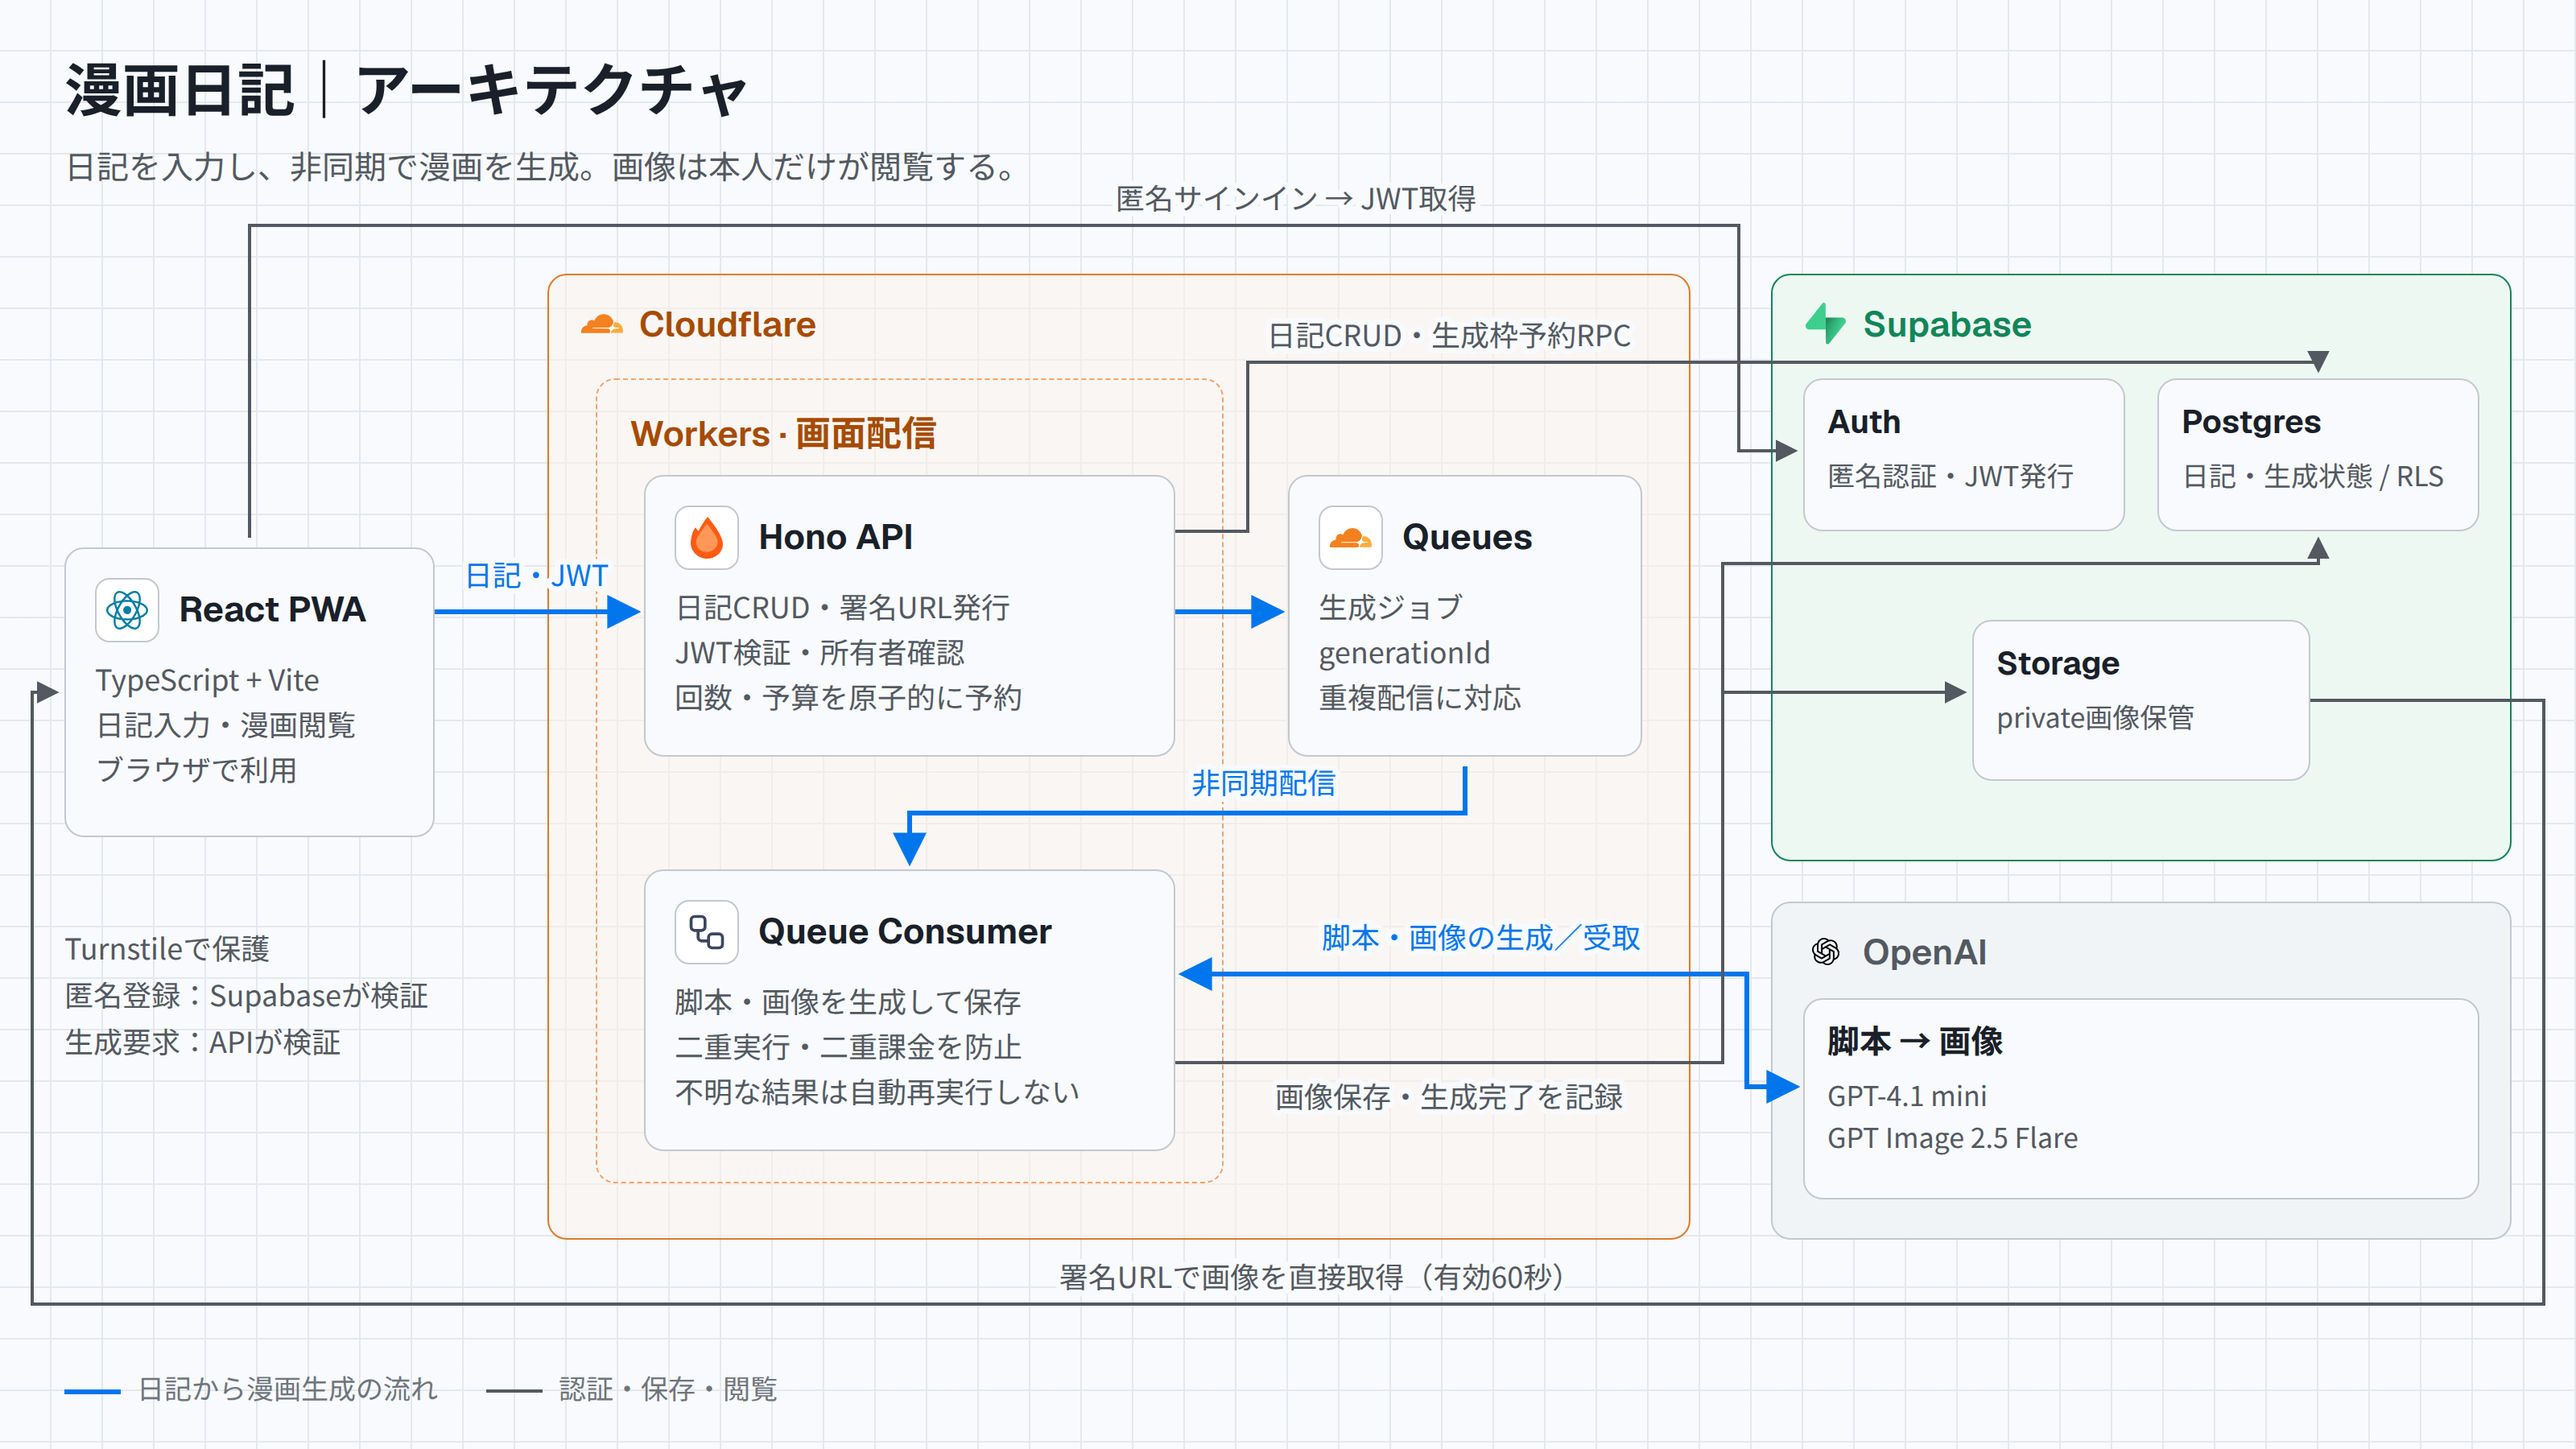
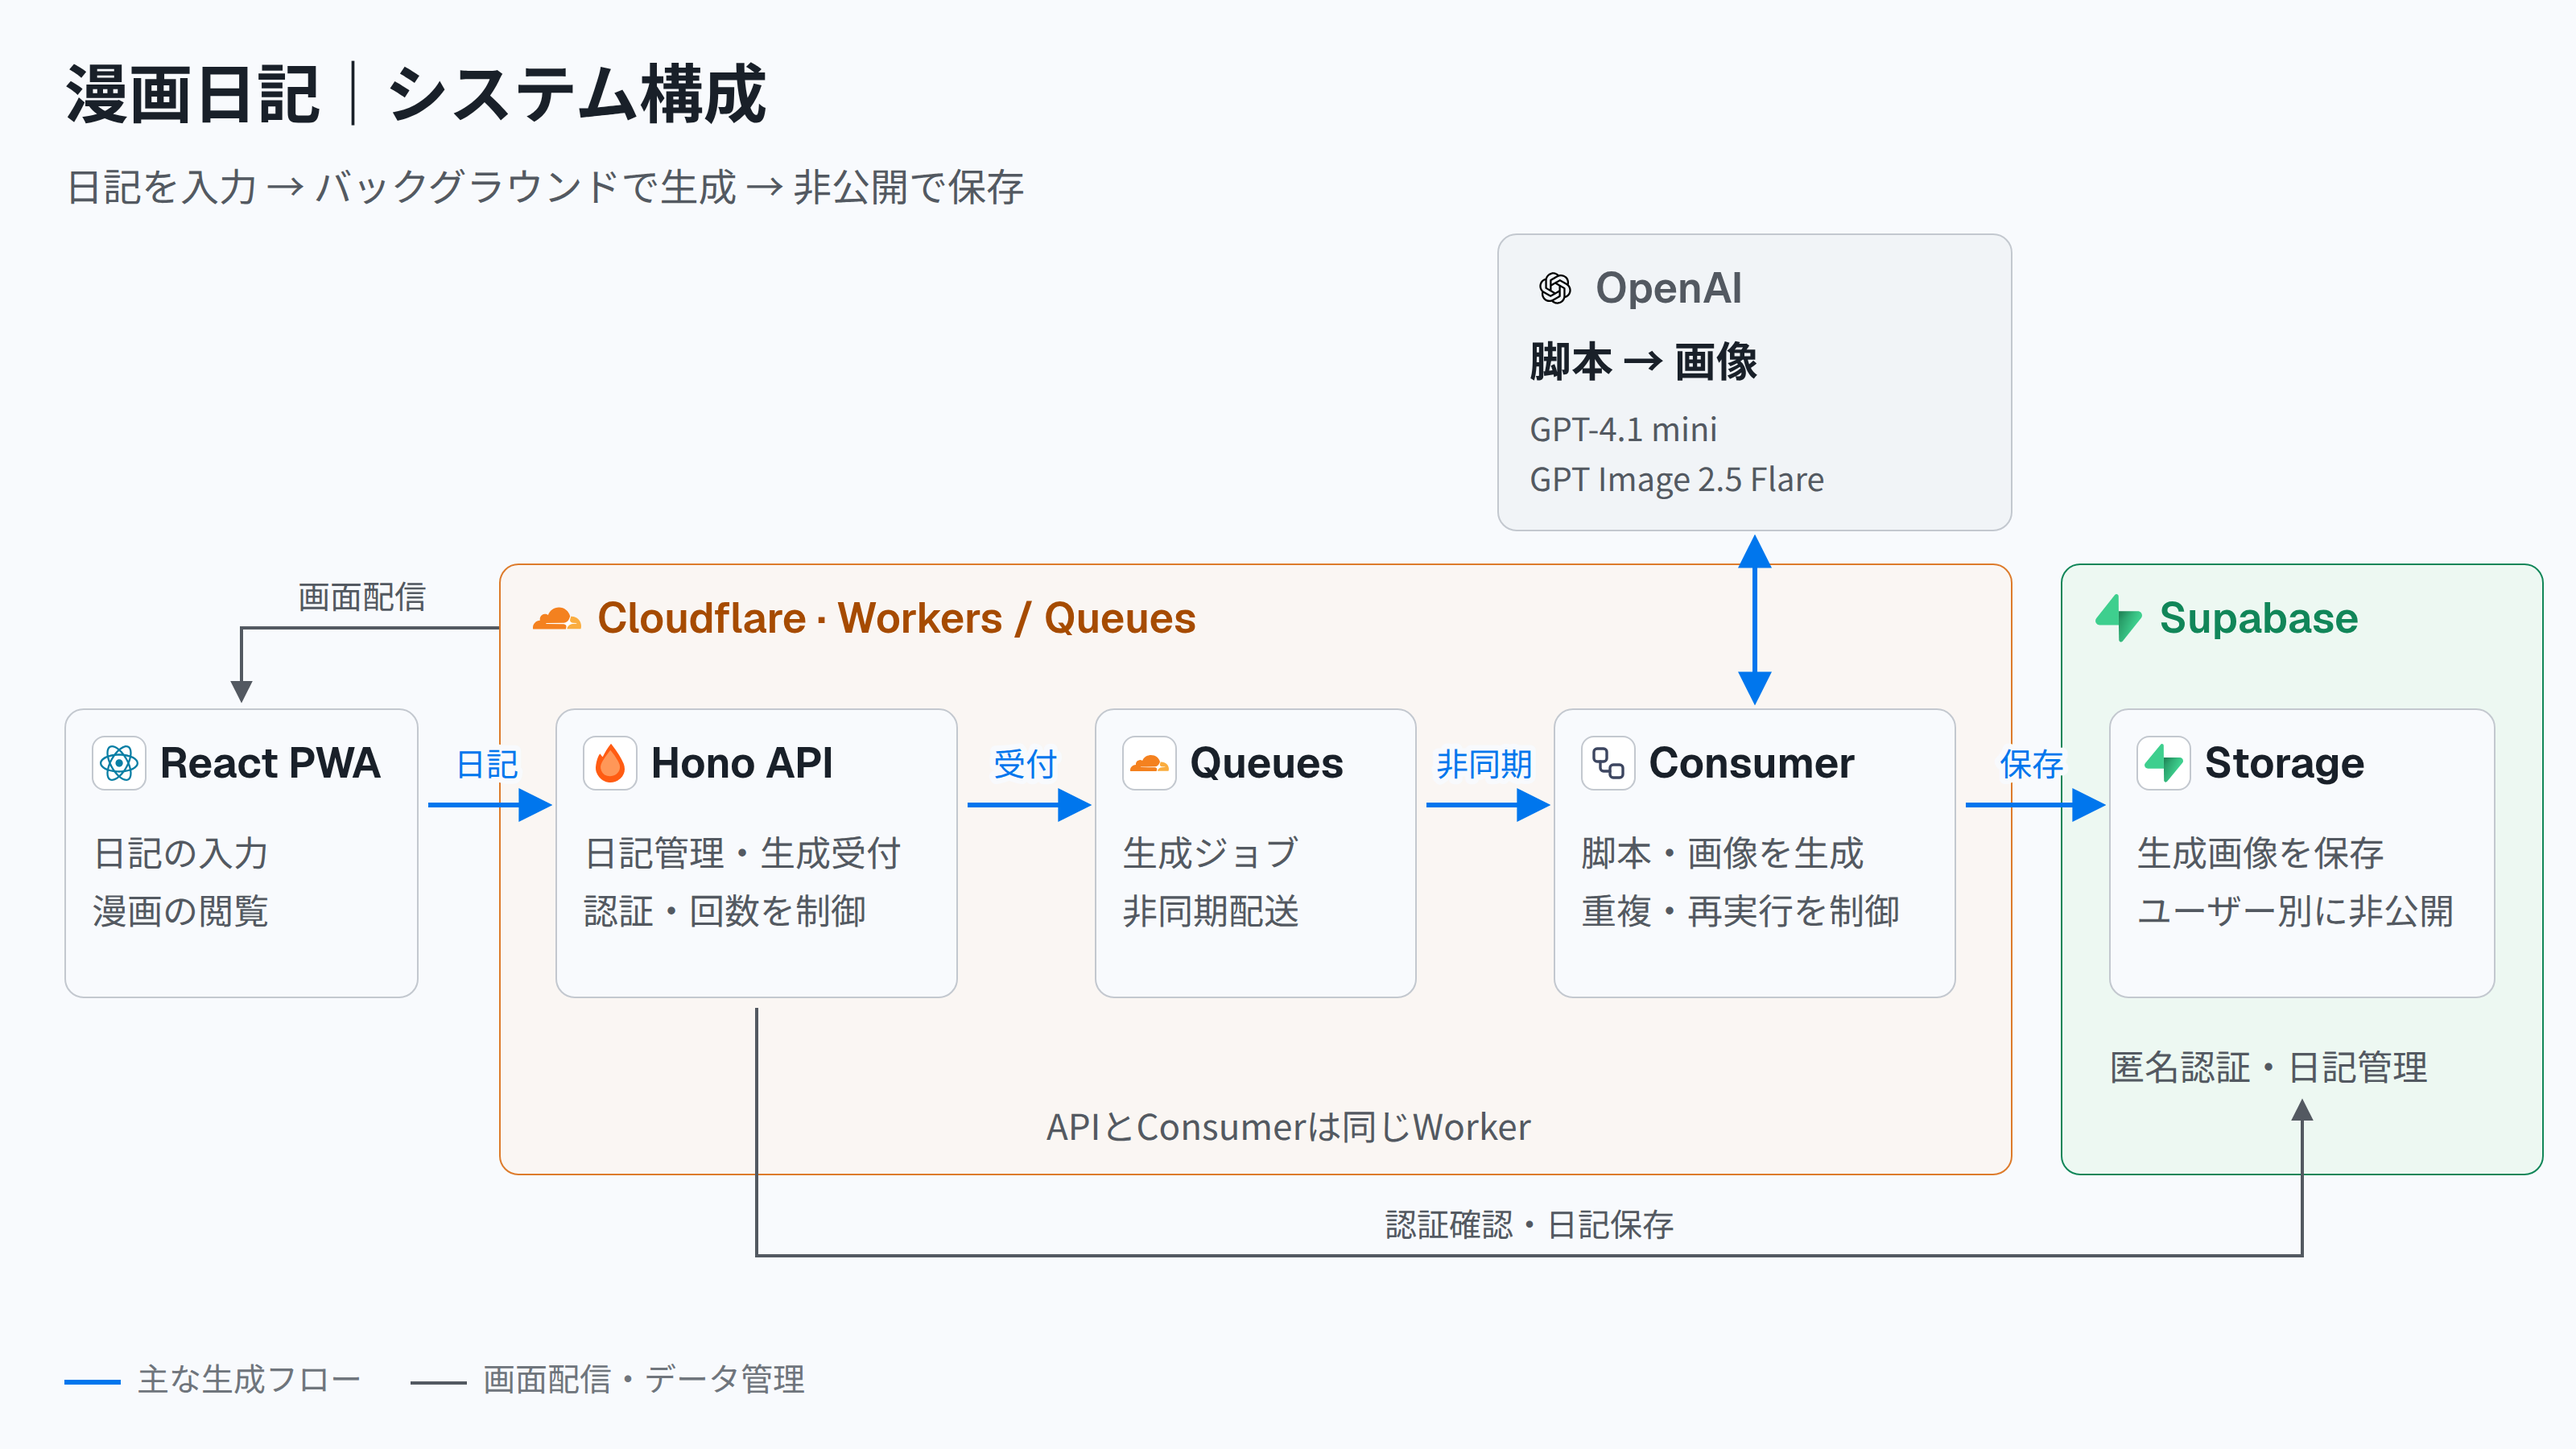
docs: 発表向けにアーキテクチャ図を簡略化

diff --git a/docs/diagrams/architecture.html b/docs/diagrams/architecture.html
@@ -22,7 +22,7 @@ LIABILITY, WHETHER IN AN ACTION OF CONTRACT, TORT OR OTHERWISE, ARISING FROM,
 OUT OF OR IN CONNECTION WITH THE SOFTWARE OR THE USE OR OTHER DEALINGS IN THE
 SOFTWARE.
 -->
-<html lang="ja"><head><meta charset="UTF-8"><meta name="viewport" content="width=device-width, initial-scale=1"><title>漫画日記のアーキテクチャ</title><style>
+<html lang="ja"><head><meta charset="UTF-8"><meta name="viewport" content="width=device-width, initial-scale=1"><title>漫画日記のシステム構成</title><style>
 /* engineered-paper theme (cool near-white, one accent, mono labels)
  * All colors/fonts flow through the :root tokens — tweak tokens, not scattered values. */
 :root {
@@ -186,44 +186,41 @@ path.aws { stroke: var(--color-ink); stroke-width:1.6; fill:none; }
 .foot a:hover { color: var(--color-accent); }
 
 :root { --font-mono:"JetBrains Mono","Noto Sans CJK JP","Noto Sans JP",monospace; --color-supabase:oklch(55% .12 160); --color-supabase-tint:oklch(97% .015 160); }
-body { padding:24px; } .canvas { width:1600px; height:900px; background-size:32px 32px; }
-svg.edges {width:1600px;height:900px;} .g-label {font-size:22px;top:16px;left:20px;gap:10px;} .g-label img {width:26px;height:26px;}
+body {padding:24px;} .canvas {width:1600px;height:900px;background-image:none;} svg.edges {width:1600px;height:900px;}
+.g-label {font-size:26px;top:16px;left:20px;gap:10px;} .g-label img {width:30px;height:30px;}
 .group.supabase {border:1.5px solid var(--color-supabase);background:var(--color-supabase-tint);} .group.supabase .g-label {color:var(--color-supabase);}
 .group.openai {border:1.5px solid var(--color-rule-2);background:var(--color-paper-2);}
-.card {position:absolute;border:1px solid var(--color-rule-2);border-radius:12px;background:var(--color-paper);padding:18px;}
-.card-head {display:flex;align-items:center;gap:12px;font-family:var(--font-display);font-size:22px;font-weight:650;line-height:1.25;}
-.card-head img {width:40px;height:40px;object-fit:contain;background:white;border:1px solid var(--color-rule-2);border-radius:9px;padding:6px;}
-.card p {font-size:18px;line-height:1.55;color:var(--color-neutral);margin-top:10px;}
-.card.compact {padding:14px;} .card.compact .card-head {font-size:20px;gap:8px;} .card.compact p {font-size:17px;margin-top:7px;}
-.canvas-title {position:absolute;left:40px;top:35px;} .canvas-title h1 {font-size:36px;} .canvas-title p {font-size:20px;color:var(--color-neutral);margin-top:10px;}
-.e {stroke-width:3;} .n {stroke-width:2;} .el {font-family:var(--font-body);font-size:18px;stroke-width:7px;letter-spacing:0;}
-.caption {position:absolute;font-size:18px;color:var(--color-neutral);line-height:1.6;} .canvas-legend {position:absolute;left:40px;bottom:26px;display:flex;gap:30px;font-size:17px;color:var(--color-muted);}
+.card {position:absolute;border:1px solid var(--color-rule-2);border-radius:12px;background:var(--color-paper);padding:16px;}
+.card-head {display:flex;align-items:center;gap:8px;font-family:var(--font-display);font-size:26px;font-weight:650;line-height:1.25;white-space:nowrap;}
+.card-head img {width:34px;height:34px;object-fit:contain;background:white;border:1px solid var(--color-rule-2);border-radius:8px;padding:4px;}
+.card p {font-size:22px;line-height:1.65;color:var(--color-neutral);margin-top:20px;}
+.canvas-title {position:absolute;left:40px;top:35px;} .canvas-title h1 {font-size:40px;} .canvas-title p {font-size:24px;color:var(--color-neutral);margin-top:14px;}
+.e {stroke-width:3;} .n {stroke-width:2;} .el {font-family:var(--font-body);font-size:20px;stroke-width:7px;letter-spacing:0;}
+.caption {position:absolute;font-size:22px;color:var(--color-neutral);line-height:1.55;}
+.ai-detail {position:absolute;left:950px;top:205px;width:280px;} .ai-detail strong {font-family:var(--font-display);font-size:26px;} .ai-detail p {font-size:20px;line-height:1.55;color:var(--color-neutral);margin-top:8px;}
+.canvas-legend {position:absolute;left:40px;bottom:30px;display:flex;gap:30px;font-size:20px;color:var(--color-muted);}
 .canvas-legend i {display:inline-block;width:35px;border-top:3px solid var(--color-accent);vertical-align:middle;margin-right:10px;} .canvas-legend i.gray {border-color:var(--color-neutral);border-top-width:2px;}
-</style></head><body><main class="page"><div class="scroller"><div class="canvas" role="img" aria-label="React PWAから同一Cloudflare WorkerのAPI、Queues、Consumerを経由してOpenAIで漫画を生成し、Supabaseに非公開保存する構成図。">
-<div class="canvas-title"><h1>漫画日記｜アーキテクチャ</h1><p>日記を入力し、非同期で漫画を生成。画像は本人だけが閲覧する。</p></div>
[1 lines of base64/hex data omitted]
-<div class="group ga-nested" style="left:370px;top:235px;width:390px;height:500px"><div class="g-label">Workers · 画面配信</div></div>
[2 lines of base64/hex data omitted]
+</style></head><body><main class="page"><div class="scroller"><div class="canvas" role="img" aria-label="主な生成フローを左から右へ示す図。React PWA、Hono API、Queues、Consumer、Supabase Storageの順に進み、ConsumerがOpenAIを呼び出す。APIとConsumerは同じCloudflare Workerで動作する。">
+<div class="canvas-title"><h1>漫画日記｜システム構成</h1><p>日記を入力 → バックグラウンドで生成 → 非公開で保存</p></div>
[3 lines of base64/hex data omitted]
 <svg class="edges" viewBox="0 0 1600 900" aria-hidden="true"><defs><marker id="ar" viewBox="0 0 10 10" refX="8" refY="5" markerWidth="7" markerHeight="7" orient="auto-start-reverse"><path d="M0 0 L10 5 L0 10 z" fill="context-stroke"/></marker></defs>
-<path class="e" d="M270 380 H394" marker-end="url(#ar)"/><text class="el a" x="333" y="364" text-anchor="middle">日記・JWT</text>
-<path class="e" d="M730 380 H794" marker-end="url(#ar)"/>
-<path class="e" d="M910 476 V505 H565 V534" marker-end="url(#ar)"/><text class="el a" x="785" y="493" text-anchor="middle">非同期配信</text>
-<path class="e" d="M736 605 H1085 V675 H1114" marker-start="url(#ar)" marker-end="url(#ar)"/><text class="el a" x="920" y="589" text-anchor="middle">脚本・画像の生成／受取</text>
-<path class="n" d="M155 334 V140 H1080 V280 H1114" marker-end="url(#ar)"/><text class="el" x="805" y="130" text-anchor="middle">匿名サインイン → JWT取得</text>
-<path class="n" d="M730 330 H775 V225 H1440 V229" marker-end="url(#ar)"/><text class="el" x="900" y="215" text-anchor="middle">日記CRUD・生成枠予約RPC</text>
-<path class="n" d="M730 660 H1070 V350 H1440 V336" marker-end="url(#ar)"/><text class="el" x="900" y="688" text-anchor="middle">画像保存・生成完了を記録</text>
-<path class="n" d="M1070 430 H1219" marker-end="url(#ar)"/>
-<path class="n" d="M1435 435 H1580 V810 H20 V430 H34" marker-end="url(#ar)"/><text class="el" x="820" y="800" text-anchor="middle">署名URLで画像を直接取得（有効60秒）</text>
+<path class="e" d="M266 500 H339" marker-end="url(#ar)"/><text class="el a" x="302" y="482" text-anchor="middle">日記</text>
+<path class="e" d="M601 500 H674" marker-end="url(#ar)"/><text class="el a" x="637" y="482" text-anchor="middle">受付</text>
+<path class="e" d="M886 500 H959" marker-end="url(#ar)"/><text class="el a" x="922" y="482" text-anchor="middle">非同期</text>
+<path class="e" d="M1221 500 H1304" marker-end="url(#ar)"/><text class="el a" x="1262" y="482" text-anchor="middle">保存</text>
+<path class="e" d="M1090 336 V434" marker-start="url(#ar)" marker-end="url(#ar)"/>
+<path class="n" d="M310 390 H150 V434" marker-end="url(#ar)"/><text class="el" x="225" y="378" text-anchor="middle">画面配信</text>
+<path class="n" d="M470 626 V780 H1430 V685" marker-end="url(#ar)"/><text class="el" x="950" y="768" text-anchor="middle">認証確認・日記保存</text>
 </svg>
[4 lines of base64/hex data omitted]
-<div class="card compact" style="left:1120px;top:235px;width:200px;height:95px"><div class="card-head">Auth</div><p>匿名認証・JWT発行</p></div>
-<div class="card compact" style="left:1340px;top:235px;width:200px;height:95px"><div class="card-head">Postgres</div><p>日記・生成状態 / RLS</p></div>
-<div class="card compact" style="left:1225px;top:385px;width:210px;height:100px"><div class="card-head">Storage</div><p>private画像保管</p></div>
-<div class="card compact" style="left:1120px;top:620px;width:420px;height:125px"><div class="card-head">脚本 → 画像</div><p>GPT-4.1 mini<br>GPT Image 2.5 Flare</p></div>
-<p class="caption" style="left:40px;top:575px;width:250px">Turnstileで保護<br>匿名登録：Supabaseが検証<br>生成要求：APIが検証</p>
-<div class="canvas-legend"><span><i></i>日記から漫画生成の流れ</span><span><i class="gray"></i>認証・保存・閲覧</span></div>
[5 lines of base64/hex data omitted]
+<div class="ai-detail"><strong>脚本 → 画像</strong><p>GPT-4.1 mini<br>GPT Image 2.5 Flare</p></div>
+<p class="caption" style="left:650px;top:682px">APIとConsumerは同じWorker</p>
+<p class="caption" style="left:1310px;top:645px;width:240px">匿名認証・日記管理</p>
+<div class="canvas-legend"><span><i></i>主な生成フロー</span><span><i class="gray"></i>画面配信・データ管理</span></div>
 </div></div><footer class="foot"><span>ロゴは各権利者の商標です。</span><span>icons: svgl / Lucide · made with <a href="https://github.com/caru-ini/stack-diagram" target="_blank" rel="noopener">stack-diagram</a></span></footer></main></body></html>
